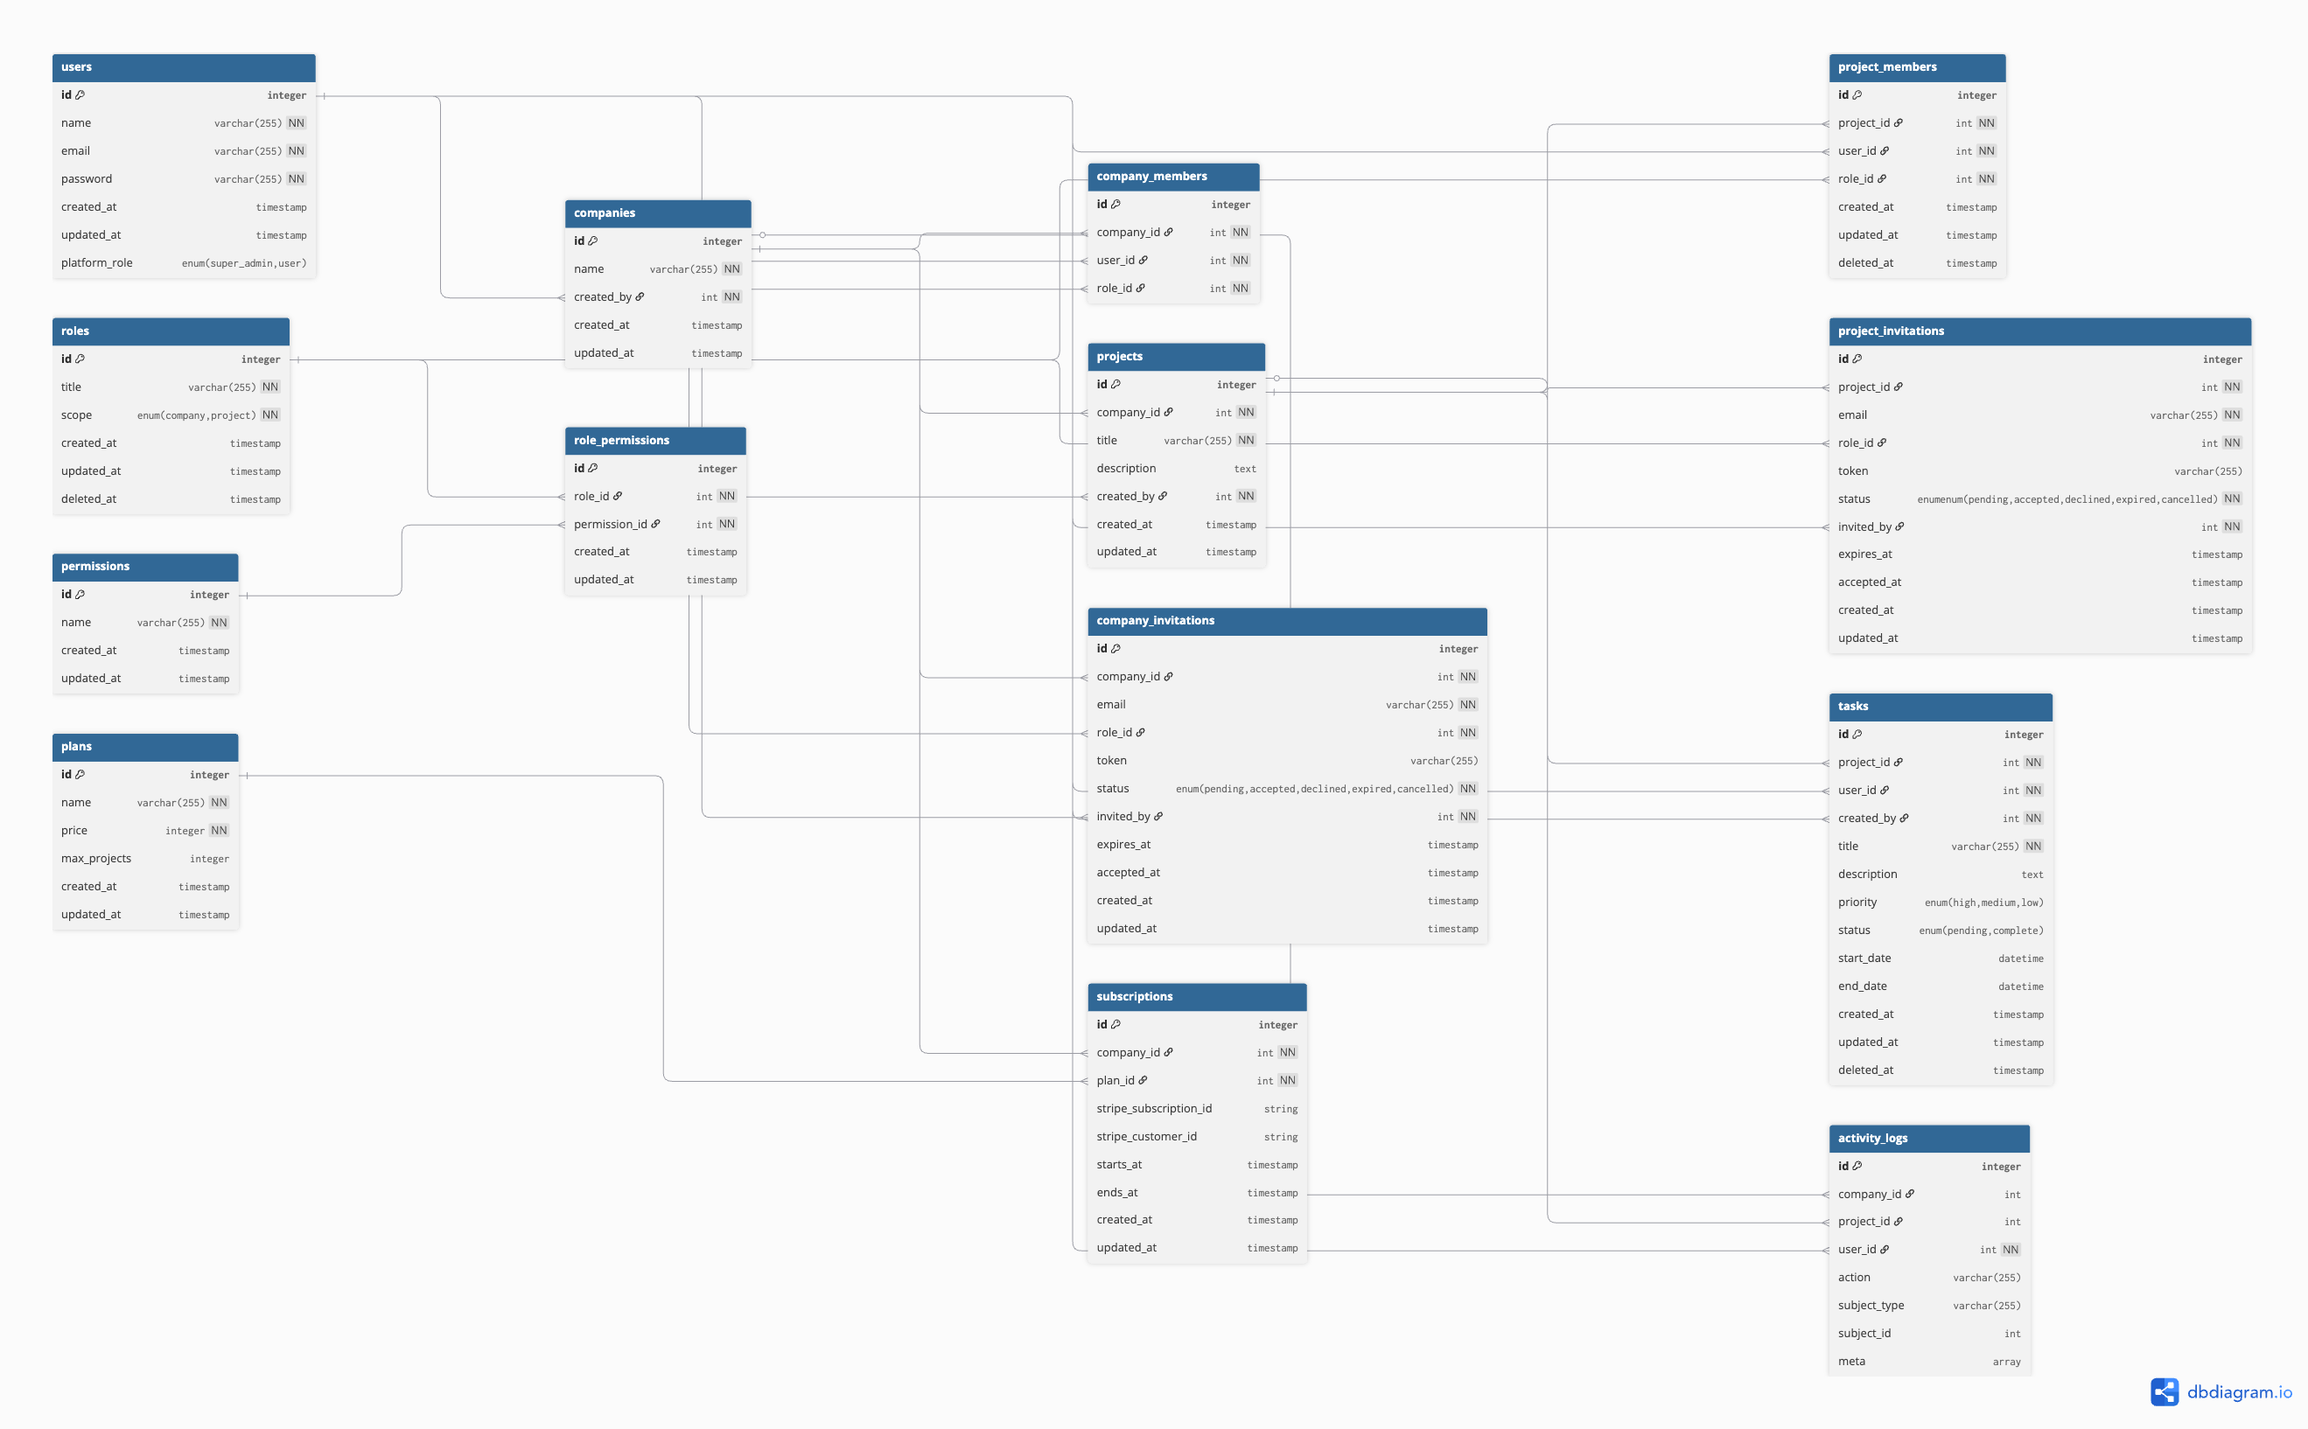
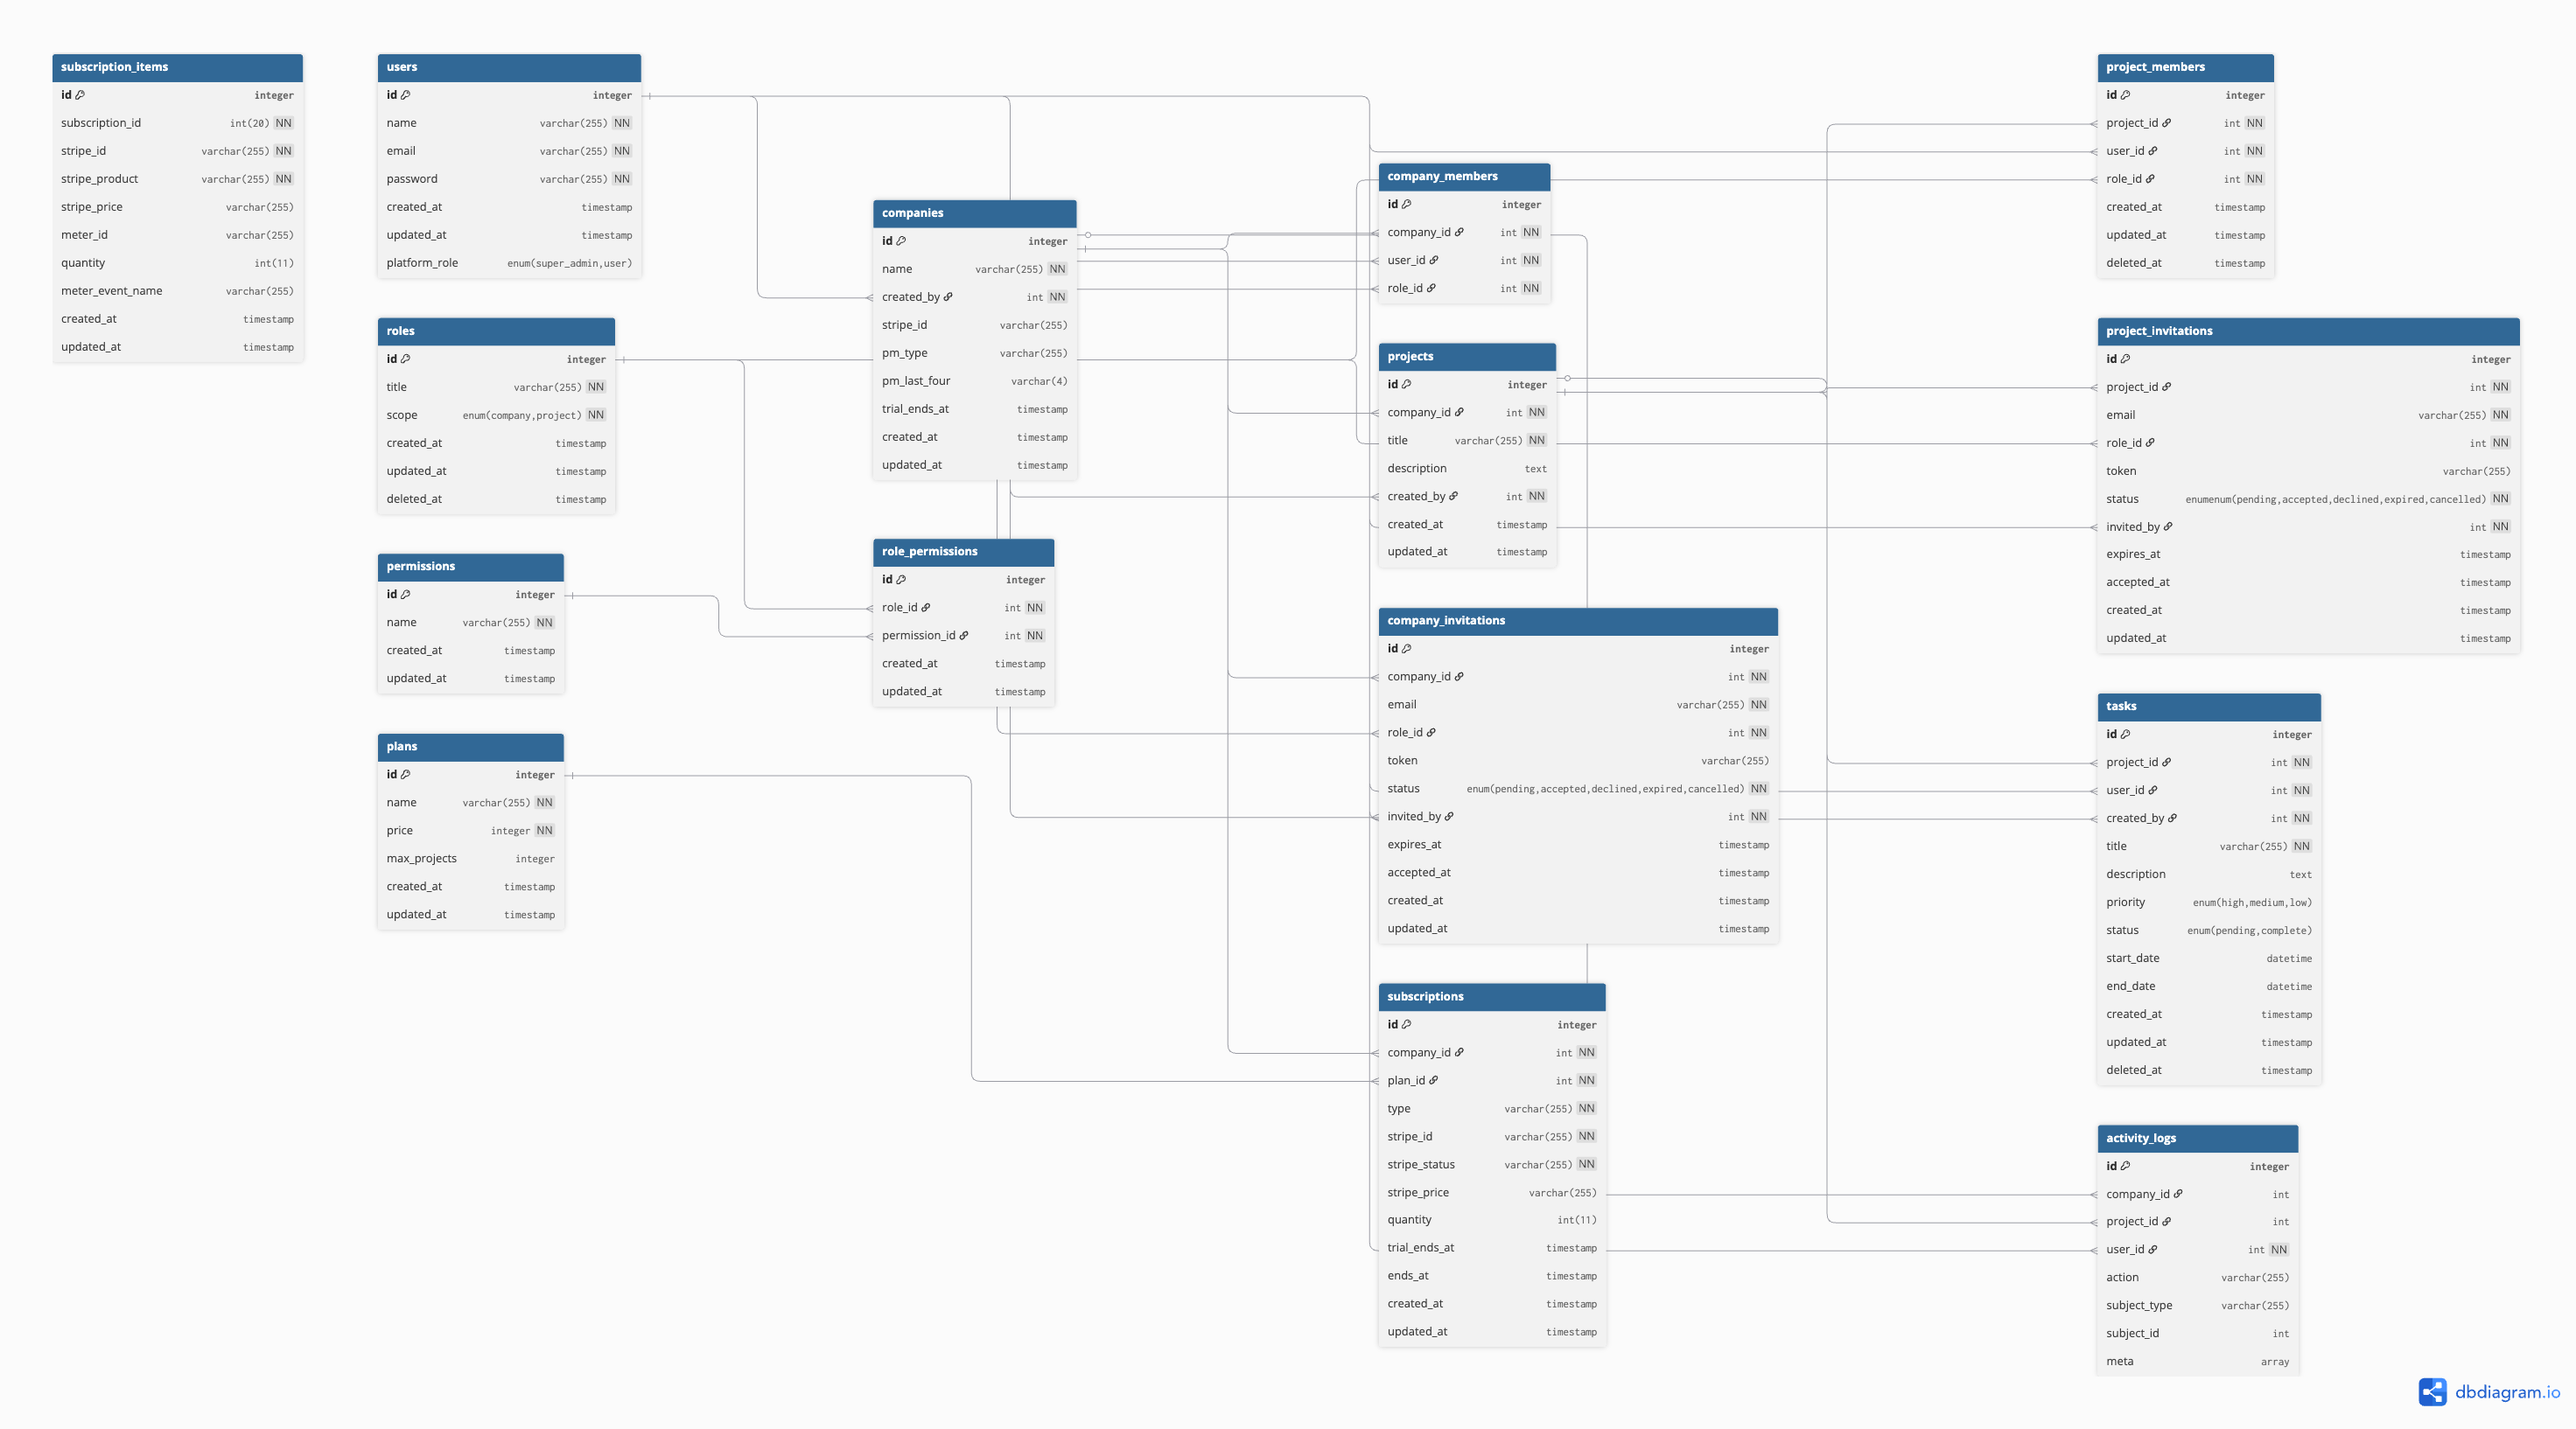
Add plan_id column to subscriptions table migration and update schema image

diff --git a/database/migrations/2026_03_20_064821_add_plan_id_column_to_subscriptions_table.php b/database/migrations/2026_03_20_064821_add_plan_id_column_to_subscriptions_table.php
@@ -1,0 +1,29 @@
+<?php
+
+use Illuminate\Database\Migrations\Migration;
+use Illuminate\Database\Schema\Blueprint;
+use Illuminate\Support\Facades\Schema;
+
+return new class extends Migration
+{
+    /**
+     * Run the migrations.
+     */
+    public function up(): void
+    {
+        Schema::table('subscriptions', function (Blueprint $table) {
+            $table->foreignId('plan_id')->after('company_id')->constrained();
+        });
+    }
+
+    /**
+     * Reverse the migrations.
+     */
+    public function down(): void
+    {
+        Schema::table('subscriptions', function (Blueprint $table) {
+            $table->dropForeign(['plan_id']);
+            $table->dropColumn('plan_id');
+        });
+    }
+};
